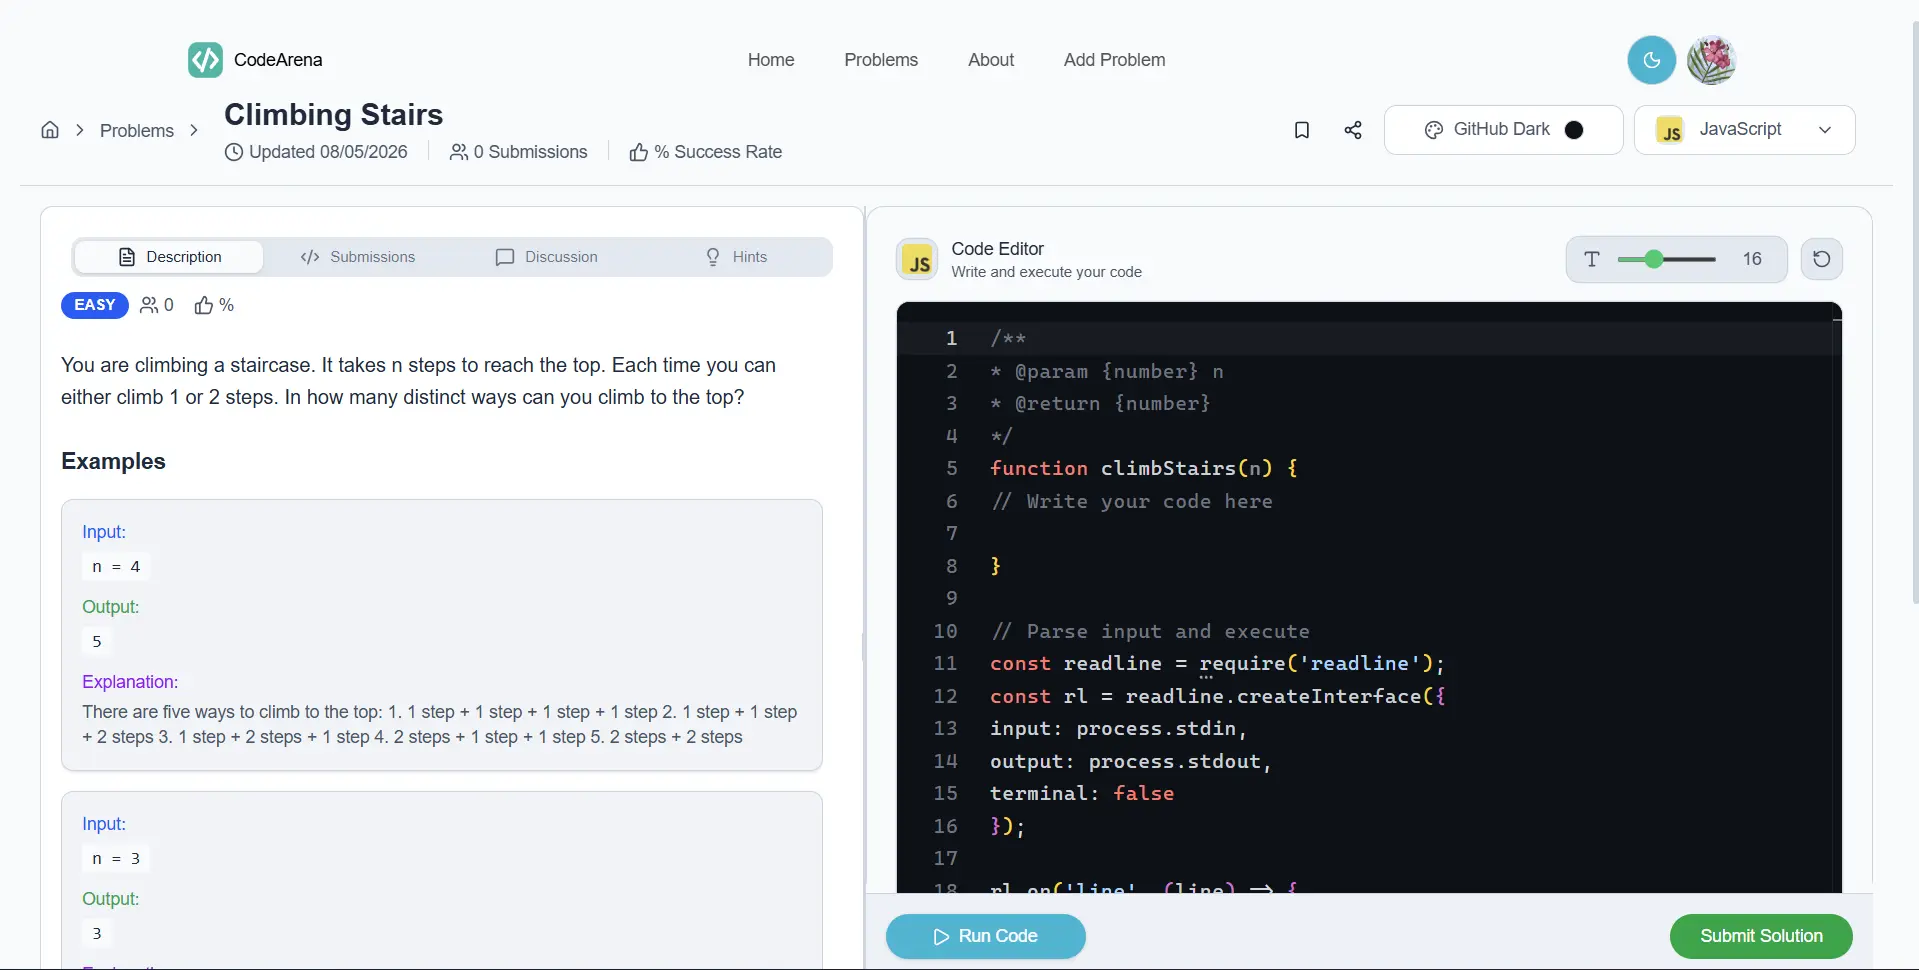
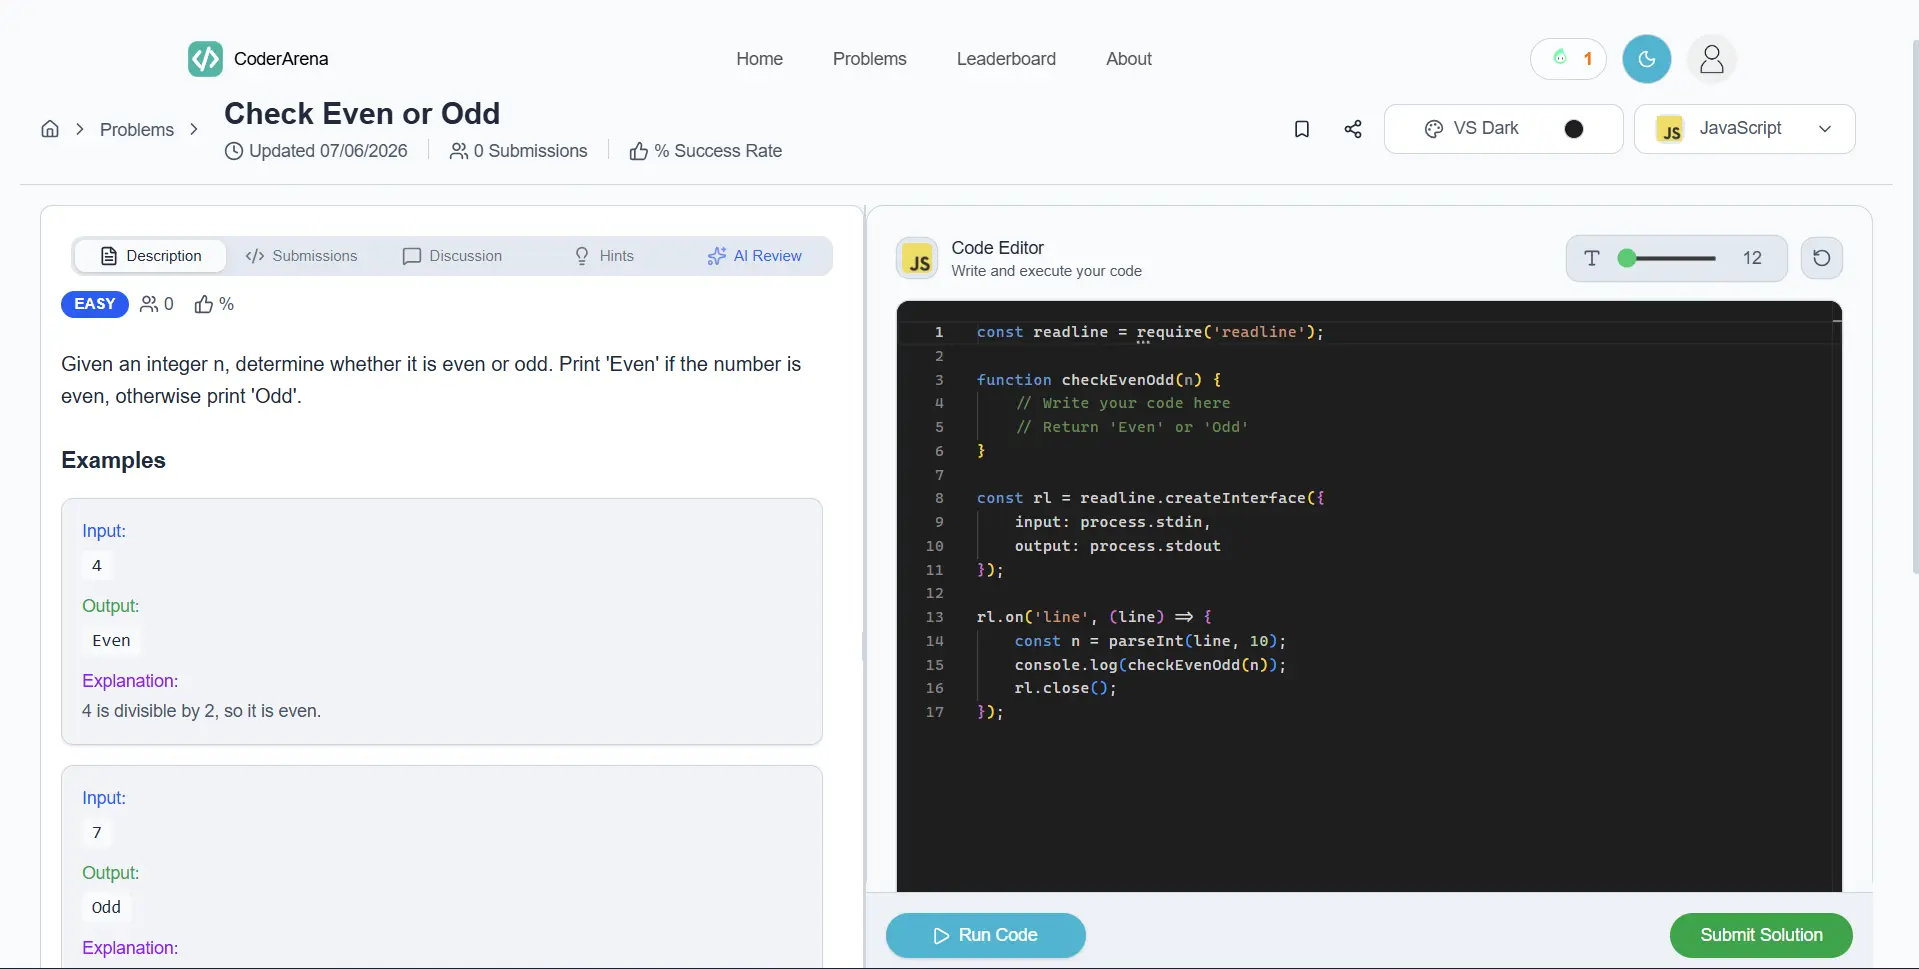
feat: add About Us page and relevant assets to the public directory

diff --git a/frontend/src/pages/root/About.tsx b/frontend/src/pages/root/About.tsx
@@ -125,11 +125,18 @@ export default function AboutUsPage() {
             <div className="relative mx-auto w-full max-w-md lg:max-w-none">
               <div className="from-primary/20 to-secondary/20 absolute inset-0 rounded-2xl bg-gradient-to-r blur-2xl sm:blur-3xl"></div>
               <img
-                src="/images/problem.webp"
-                alt="Mission illustration"
+                src="/light-problem.webp"
+                alt="CoderArena Problem Workspace - Light Theme"
                 width={500}
                 height={400}
-                className="relative h-auto w-full rounded-2xl object-cover shadow-2xl"
+                className="relative h-auto w-full rounded-2xl object-cover shadow-2xl block dark:hidden"
+              />
+              <img
+                src="/dark-problem.webp"
+                alt="CoderArena Problem Workspace - Dark Theme"
+                width={500}
+                height={400}
+                className="relative h-auto w-full rounded-2xl object-cover shadow-2xl hidden dark:block"
               />
             </div>
           </div>
@@ -372,11 +379,18 @@ export default function AboutUsPage() {
             <div className="relative mx-auto w-full max-w-md lg:max-w-none">
               <div className="from-primary/20 to-secondary/20 absolute inset-0 rounded-2xl bg-gradient-to-r blur-2xl sm:blur-3xl"></div>
               <img
-                src="/images/editor.webp"
-                alt="Auto-save feature illustration"
+                src="/light-editor.webp"
+                alt="CoderArena Code Editor - Light Theme"
                 width={500}
                 height={400}
-                className="relative h-auto w-full rounded-2xl object-cover shadow-2xl"
+                className="relative h-auto w-full rounded-2xl object-cover shadow-2xl block dark:hidden"
+              />
+              <img
+                src="/dark-editor.webp"
+                alt="CoderArena Code Editor - Dark Theme"
+                width={500}
+                height={400}
+                className="relative h-auto w-full rounded-2xl object-cover shadow-2xl hidden dark:block"
               />
             </div>
           </div>
@@ -385,11 +399,18 @@ export default function AboutUsPage() {
             <div className="relative order-2 mx-auto w-full max-w-md overflow-hidden rounded-2xl lg:order-1 lg:max-w-none">
               <div className="absolute inset-0 rounded-2xl bg-gradient-to-r from-purple-500/20 to-pink-500/20 blur-3xl"></div>
               <img
-                src="/images/profile.webp"
-                alt="Analytics dashboard illustration"
+                src="/light-profile.webp"
+                alt="CoderArena User Profile - Light Theme"
                 width={500}
                 height={400}
-                className="relative h-auto w-full rounded-2xl object-cover shadow-2xl"
+                className="relative h-auto w-full rounded-2xl object-cover shadow-2xl block dark:hidden"
+              />
+              <img
+                src="/dark-profile.webp"
+                alt="CoderArena User Profile - Dark Theme"
+                width={500}
+                height={400}
+                className="relative h-auto w-full rounded-2xl object-cover shadow-2xl hidden dark:block"
               />
             </div>
             <div className="order-1 space-y-6 text-center lg:order-2 lg:text-left">
